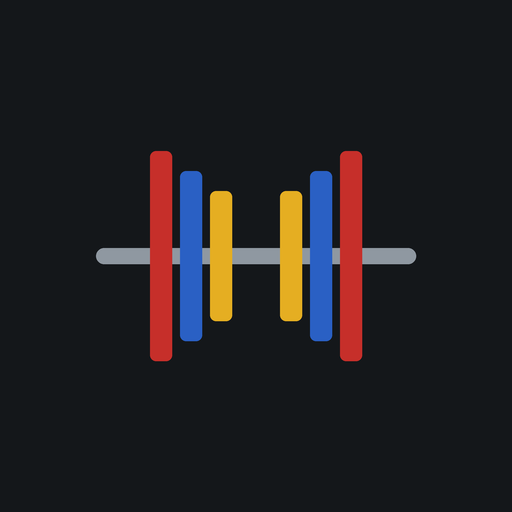
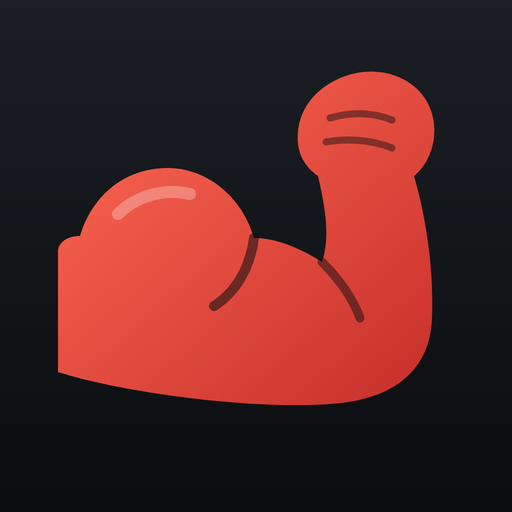
v1.9 : nouvelle icône (bras musclé)
Claude-Session: https://claude.ai/code/session_01Er7e56jVpEfuT32nEvKXei

diff --git a/index.html b/index.html
@@ -10,7 +10,7 @@
 <meta name="theme-color" content="#F1F3F5" media="(prefers-color-scheme: light)">
 <meta name="theme-color" content="#0E1012" media="(prefers-color-scheme: dark)">
 <link rel="manifest" href="manifest.webmanifest">
-<link rel="apple-touch-icon" href="apple-touch-icon.png">
+<link rel="apple-touch-icon" href="apple-touch-icon.png?v=2">
 <style>:root{color-scheme:light;box-sizing:border-box}[hidden]{display:none!important}img{max-width:100%}html{background:var(--surface)}html,body{height:100%;overscroll-behavior:none}body{background:var(--surface)}#app{position:fixed;top:0;left:0;right:0;bottom:0;height:var(--app-h,100%);background:var(--bg);padding-top:env(safe-area-inset-top,0px)}.tabbar{padding-bottom:max(4px,env(safe-area-inset-bottom,0px))}</style>
 <title>Carnet de fonte</title>
 <link rel="preconnect" href="https://fonts.googleapis.com">
@@ -1358,7 +1358,7 @@ const BUILTIN=[];
 (()=>{let m='';for(const line of RAW.split('\n')){const l=line.trim();if(!l)continue;if(l[0]==='#'){m=l.slice(1).trim();continue}const[name,equip,t]=l.split('|');const type=t||(m==='Cardio'?'c':equip==='Poids du corps'?'b':'w');BUILTIN.push({id:slug(name),name,muscle:m,equip,type})}})();
 
 const KEY='carnet-fonte-v1';
-const APP_VERSION='1.8';
+const APP_VERSION='1.9';
 function exampleRoutines(){
   const R=(name,list)=>({id:uid(),name,exercises:list.map(([n,k])=>({exId:slug(n),rest:90,sets:Array.from({length:k},()=>({t:'n',a:'',b:''}))}))});
   return[

diff --git a/sw.js b/sw.js
@@ -1,5 +1,5 @@
 // Carnet de fonte : cache hors ligne
-const CACHE='fonte-v10';
+const CACHE='fonte-v11';
 const CORE=['./','./index.html','./manifest.webmanifest','./apple-touch-icon.png','./icon-192.png','./icon-512.png'];
 const MEDIA=['./media/thumbs.json','./media/p0.json','./media/p1.json','./media/p2.json','./media/p3.json','./media/p4.json','./media/p5.json','./media/p6.json','./media/p7.json'];
 self.addEventListener('install',e=>{e.waitUntil(caches.open(CACHE).then(c=>c.addAll(CORE)).then(()=>self.skipWaiting()))});
